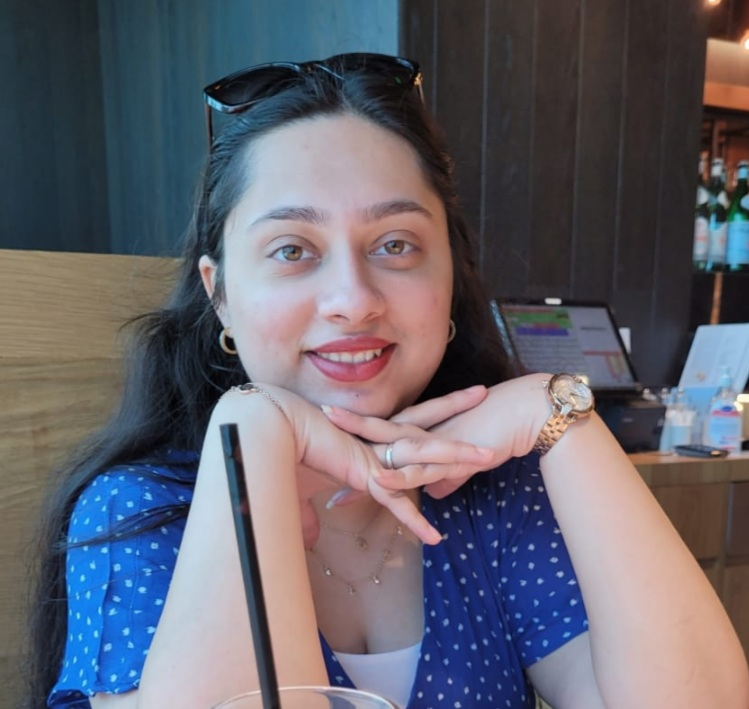
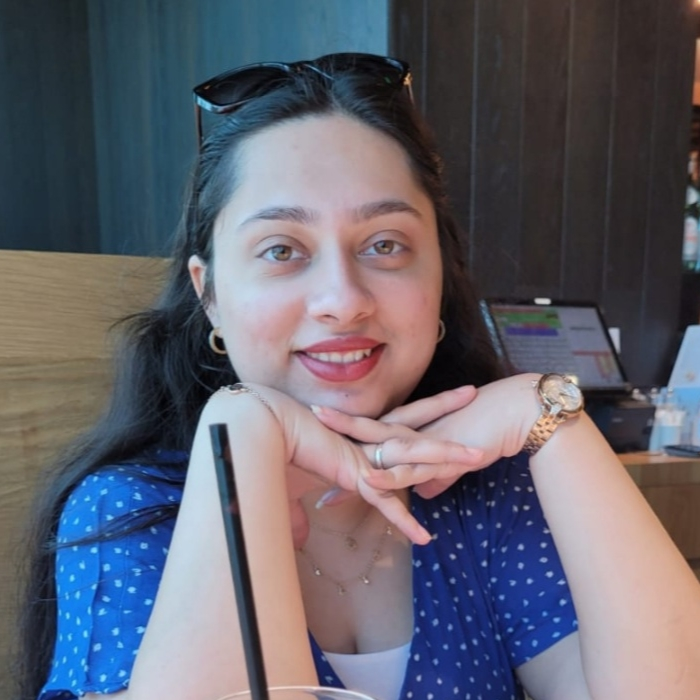
Update team page

diff --git a/team.html b/team.html
@@ -330,7 +330,7 @@
         <div class="column" data-aos="zoom-out" data-aos-delay="100">
           <div class="team">
             <div class="team-img">
-              <img src="./images/team/default.png" alt="Team Image" />
+              <img src="./images/team/N_Trivedi.jpg" alt="Team Image" />
             </div>
             <div class="team-content">
               <h2>Neketra</h2>
